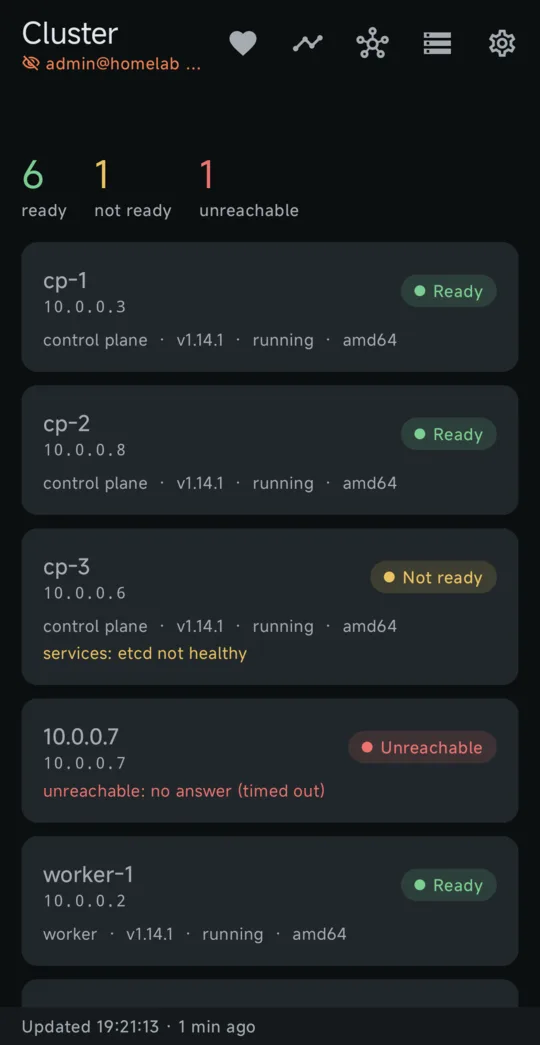
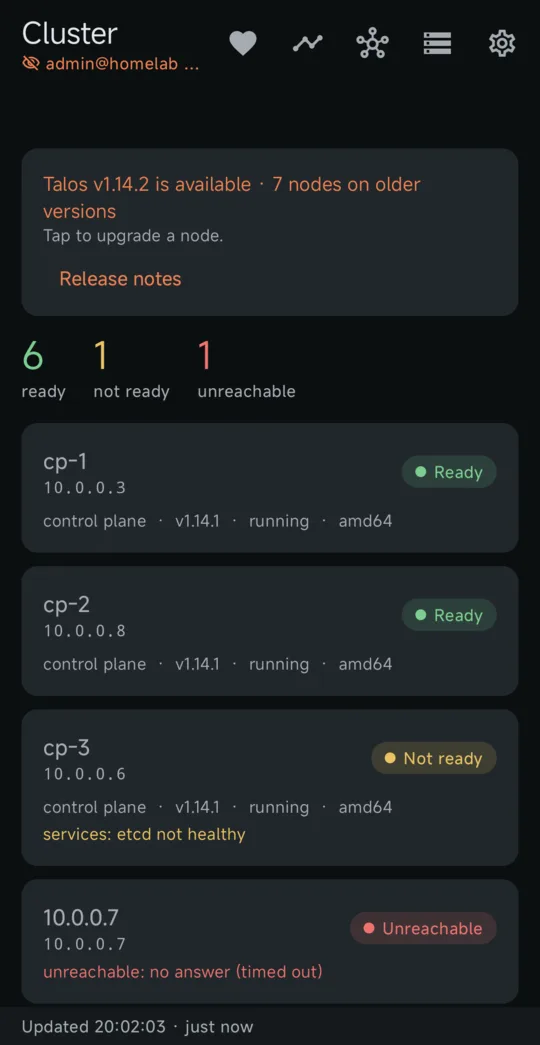
feat: website screenshot gallery; list Talos versions newest first
- seven real screens from a running cluster, taken in screenshot mode,
  on the website and as Play Store phone screenshots
- upgrade version suggestions sorted by version instead of release date

Changed region(s): [[0.0296, 0.1225, 0.9778, 1.0], [0.0889, 0.0306, 0.2667, 0.0919], [0.2963, 0.0306, 0.3259, 0.0919]]

diff --git a/docs/index.html b/docs/index.html
@@ -189,6 +189,12 @@
     .map td.role::before { content: "Needs "; }
     .top nav a.optional { display: none; }
   }
+  .shots { display: flex; gap: 1.25rem; overflow-x: auto; scroll-snap-type: x mandatory; padding: 0.5rem 0 1.25rem; margin-top: 2rem; }
+  .shots figure { margin: 0; flex: 0 0 auto; width: min(240px, 70vw); scroll-snap-align: start; }
+  .shots img { display: block; width: 100%; height: auto; border-radius: 18px; border: 1px solid var(--line); background: var(--phone); }
+  .shots figcaption { margin-top: 0.6rem; font-size: 0.9rem; color: var(--ink-2); }
+  .shots figcaption strong { display: block; color: var(--ink); font-weight: 600; }
+  .shots:focus-visible { outline: 2px solid var(--accent); outline-offset: 4px; }
 </style>
 </head>
 <body>
@@ -199,6 +205,7 @@
       Talosdev Mobile
     </a>
     <nav aria-label="Primary">
+      <a class="optional" href="#screens">Screens</a>
       <a class="optional" href="#features">Features</a>
       <a class="optional" href="#access">Access</a>
       <a href="#install">Install</a>
@@ -239,6 +246,41 @@
         </div>
       </div>
     </div>
+
+    <section id="screens" aria-labelledby="screens-title">
+      <h2 id="screens-title">What it looks like</h2>
+      <p class="intro">Real screens from a running cluster, taken in screenshot mode: addresses and node names are replaced with stand-ins.</p>
+      <div class="shots" tabindex="0" role="region" aria-label="App screenshots, scroll sideways">
+        <figure>
+          <img src="screenshots/overview.webp" width="540" height="1045" loading="lazy" alt="Cluster overview screen of Talosdev Mobile">
+          <figcaption><strong>Cluster overview</strong>Every node at a glance, and a banner when a newer Talos is out.</figcaption>
+        </figure>
+        <figure>
+          <img src="screenshots/node-services.webp" width="540" height="1045" loading="lazy" alt="Services screen of Talosdev Mobile">
+          <figcaption><strong>Services</strong>Health of each Talos service, with restart for operators.</figcaption>
+        </figure>
+        <figure>
+          <img src="screenshots/logs.webp" width="540" height="1045" loading="lazy" alt="Kernel and service logs screen of Talosdev Mobile">
+          <figcaption><strong>Kernel and service logs</strong>Colored by level, repeats folded, filter to warnings or errors.</figcaption>
+        </figure>
+        <figure>
+          <img src="screenshots/events.webp" width="540" height="1045" loading="lazy" alt="Events screen of Talosdev Mobile">
+          <figcaption><strong>Events</strong>Service changes and node conditions as they happen.</figcaption>
+        </figure>
+        <figure>
+          <img src="screenshots/graphs.webp" width="540" height="1045" loading="lazy" alt="Live graphs screen of Talosdev Mobile">
+          <figcaption><strong>Live graphs</strong>CPU, memory, network, disk and load every two seconds.</figcaption>
+        </figure>
+        <figure>
+          <img src="screenshots/capture.webp" width="540" height="1045" loading="lazy" alt="Packet capture screen of Talosdev Mobile">
+          <figcaption><strong>Packet capture</strong>A live packet list, saved as a .pcap for Wireshark.</figcaption>
+        </figure>
+        <figure>
+          <img src="screenshots/upgrade.webp" width="540" height="1045" loading="lazy" alt="Talos upgrade screen of Talosdev Mobile">
+          <figcaption><strong>Talos upgrade</strong>Your installer image with the new version, after pre-flight checks.</figcaption>
+        </figure>
+      </div>
+    </section>
 
     <section id="features" aria-labelledby="features-title">
       <h2 id="features-title">The talosctl commands you reach for, as screens</h2>

diff --git a/go/talosmobile/updatecheck_test.go b/go/talosmobile/updatecheck_test.go
@@ -1,6 +1,9 @@
 package talosmobile
 
-import "testing"
+import (
+	"strings"
+	"testing"
+)
 
 func TestCompareVersions(t *testing.T) {
 	cases := []struct {
@@ -45,5 +48,29 @@ func TestCheckUpdate(t *testing.T) {
 
 	if none := checkUpdate(nil, "v1.14.1"); none.Newer || none.Latest != "" {
 		t.Fatalf("no releases should report nothing: %+v", none)
+	}
+}
+
+func TestParseReleasesSortsByVersion(t *testing.T) {
+	body := []byte(`[
+		{"tag_name":"v1.13.11","published_at":"2026-09-30T00:00:00Z"},
+		{"tag_name":"v1.14.2","published_at":"2026-09-29T00:00:00Z"},
+		{"tag_name":"v1.12.12","published_at":"2026-09-28T00:00:00Z"},
+		{"tag_name":"v1.15.0-alpha.1","prerelease":true,"published_at":"2026-09-27T00:00:00Z"},
+		{"tag_name":"v1.14.10","published_at":"2026-09-26T00:00:00Z","draft":true}
+	]`)
+
+	got, err := parseReleases(body)
+	if err != nil {
+		t.Fatal(err)
+	}
+
+	var versions []string
+	for _, r := range got {
+		versions = append(versions, r.Version)
+	}
+
+	if want := "v1.15.0-alpha.1,v1.14.2,v1.13.11,v1.12.12"; strings.Join(versions, ",") != want {
+		t.Fatalf("got %v, want %s", versions, want)
 	}
 }

diff --git a/go/talosmobile/releases.go b/go/talosmobile/releases.go
@@ -92,9 +92,14 @@ func parseReleases(body []byte) ([]talosRelease, error) {
 
 		out = append(out, talosRelease{Version: v, Date: r.PublishedAt.UTC().Format(time.RFC3339), Prerelease: r.Prerelease})
 
-		if len(out) == maxReleases {
-			break
-		}
+	}
+
+	// Newest version first, not newest release: patch releases of older lines are published
+	// after newer minor versions.
+	sort.SliceStable(out, func(i, j int) bool { return compareVersions(out[i].Version, out[j].Version) > 0 })
+
+	if len(out) > maxReleases {
+		out = out[:maxReleases]
 	}
 
 	return out, nil
